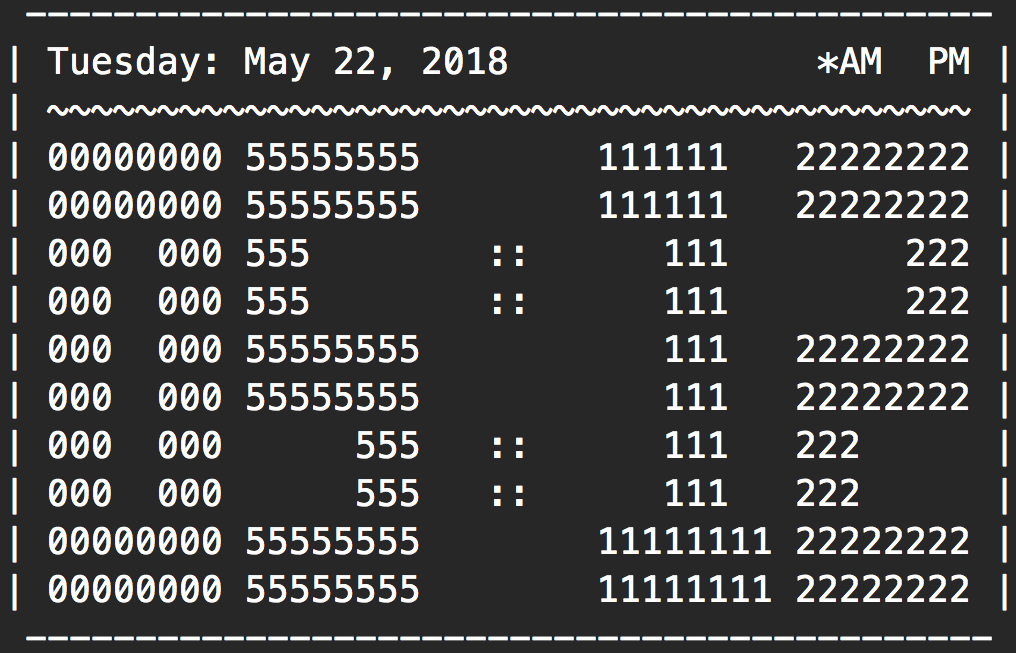
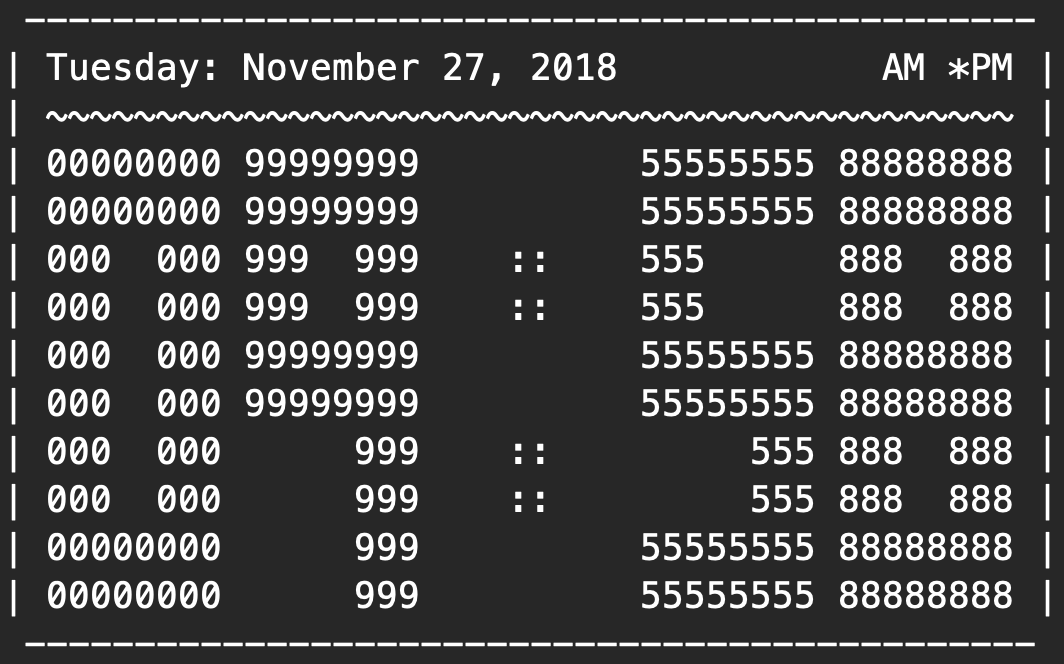
Added the correct spacing around the colon character to make all characters same width

diff --git a/src/main.rs b/src/main.rs
@@ -1,7 +1,7 @@
 extern crate time;
 
 fn print_horizontal_border() {
-    println! (" --------------------------------------------");
+    println! (" ----------------------------------------------");
 }
 
 fn print_time_horizontally (time: time::Tm) {
@@ -164,7 +164,9 @@ fn print_time_horizontally (time: time::Tm) {
         print! ("{}", clock_numbers[hour_tens_digit][row]);
         print! (" ");
         print! ("{}", clock_numbers[hour_singles_digit][row]);
+        print! (" ");
         print! ("{}", number_colon[row]);
+        print! (" ");
         print! ("{}", clock_numbers[min_tens_digit][row]);
         print! (" ");
         print! ("{}", clock_numbers[min_singles_digit][row]);
@@ -175,7 +177,7 @@ fn print_time_horizontally (time: time::Tm) {
 }
 
 fn print_divider() {
-    print! ("~~~~~~~~~~~~~~~~~~~~~~~~~~~~~~~~~~~~~~~~~~")
+    print! ("~~~~~~~~~~~~~~~~~~~~~~~~~~~~~~~~~~~~~~~~~~~~")
 }
 
 fn get_day (day_number: i32) -> String {
@@ -264,7 +266,7 @@ fn print_date (time: time::Tm) {
 
     // The following code prints out the remaining spaces needed to keep the AM/PM code within
     // the clock border
-    let mut spaces_to_print: usize = 30;
+    let mut spaces_to_print: usize = 32;
 
     spaces_to_print -= weekday.to_string().chars().count()
                      + month.to_string().chars().count()
